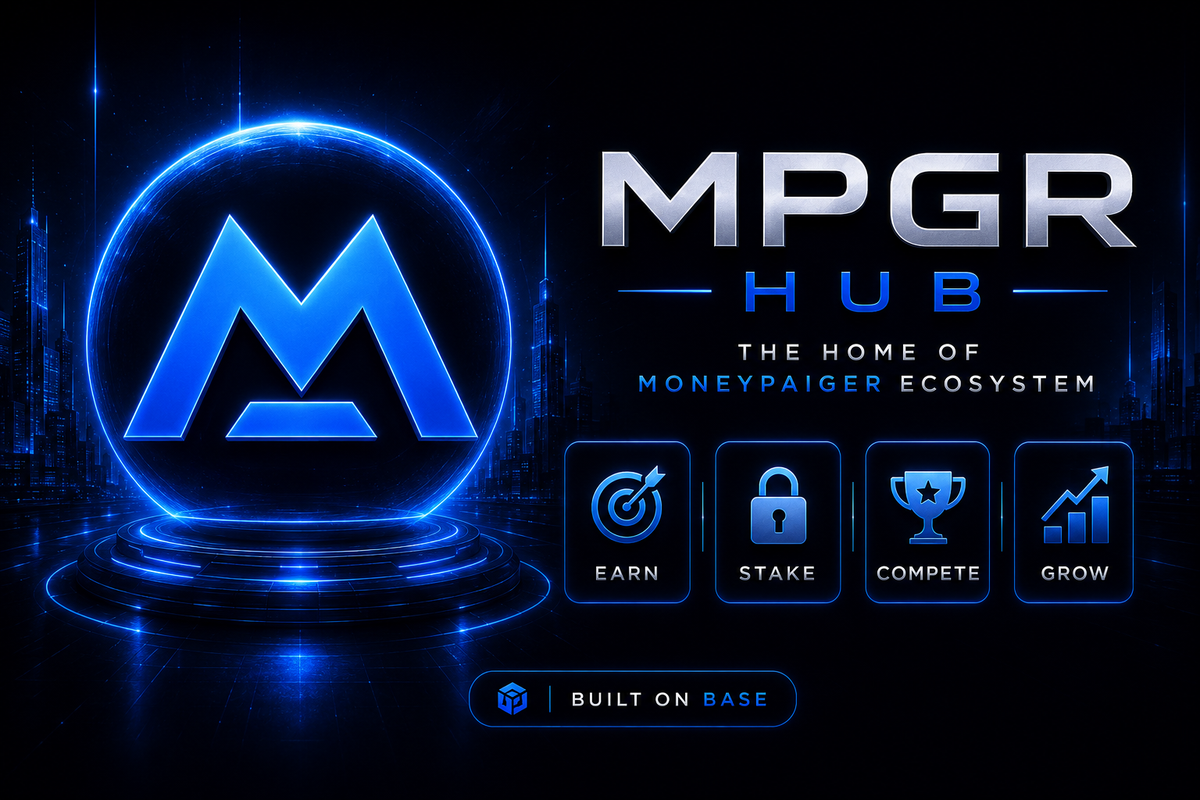
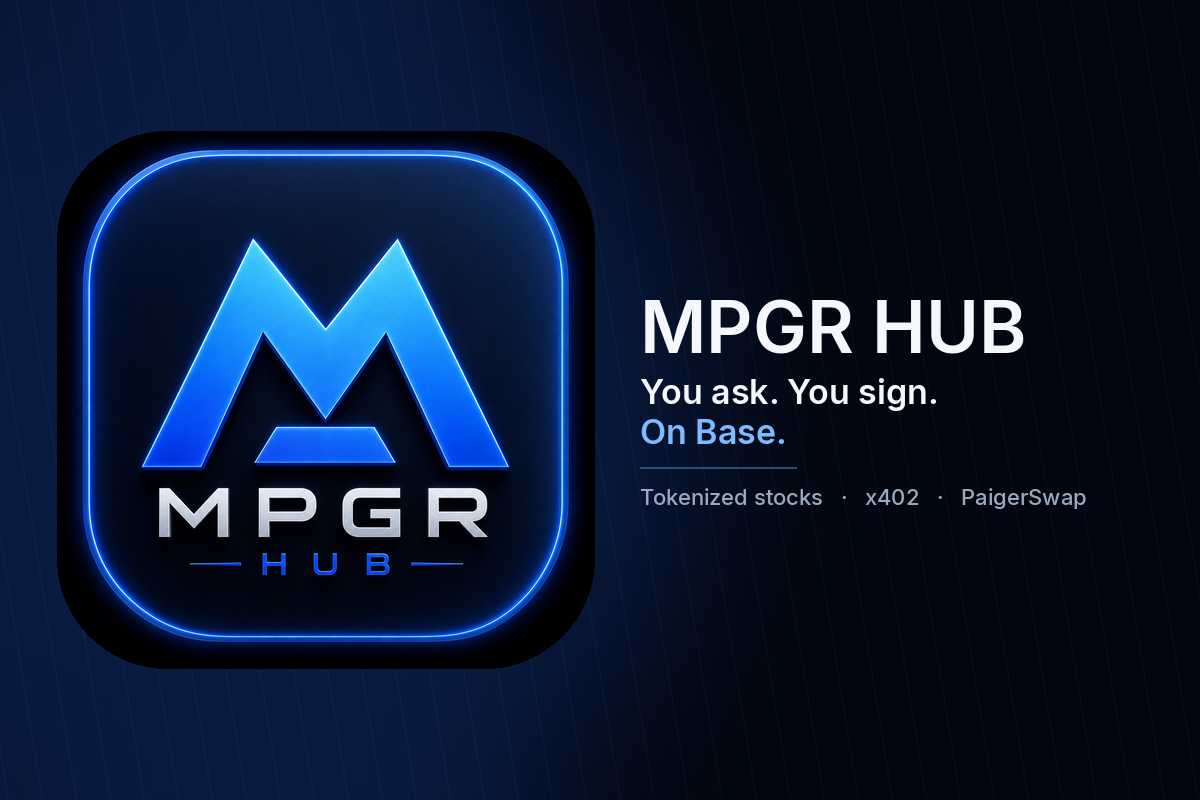
Replace the AI link card and pink Farcaster splash with the real mark.
The share image was a generated poster, and the mini-app splash sat as a tiny logo on #eeccff. Use the product icon on a dark card, and a 200x200 splash on #010102 so the loading screen reads as one full-page brand field.

diff --git a/app/layout.tsx b/app/layout.tsx
@@ -24,7 +24,7 @@ const embed = {
       name: "MPGR HUB",
       url: "https://mpgrhub.xyz",
       splashImageUrl: "https://mpgrhub.xyz/splash.png",
-      splashBackgroundColor: "#eeccff",
+      splashBackgroundColor: "#010102",
     },
   },
 };
